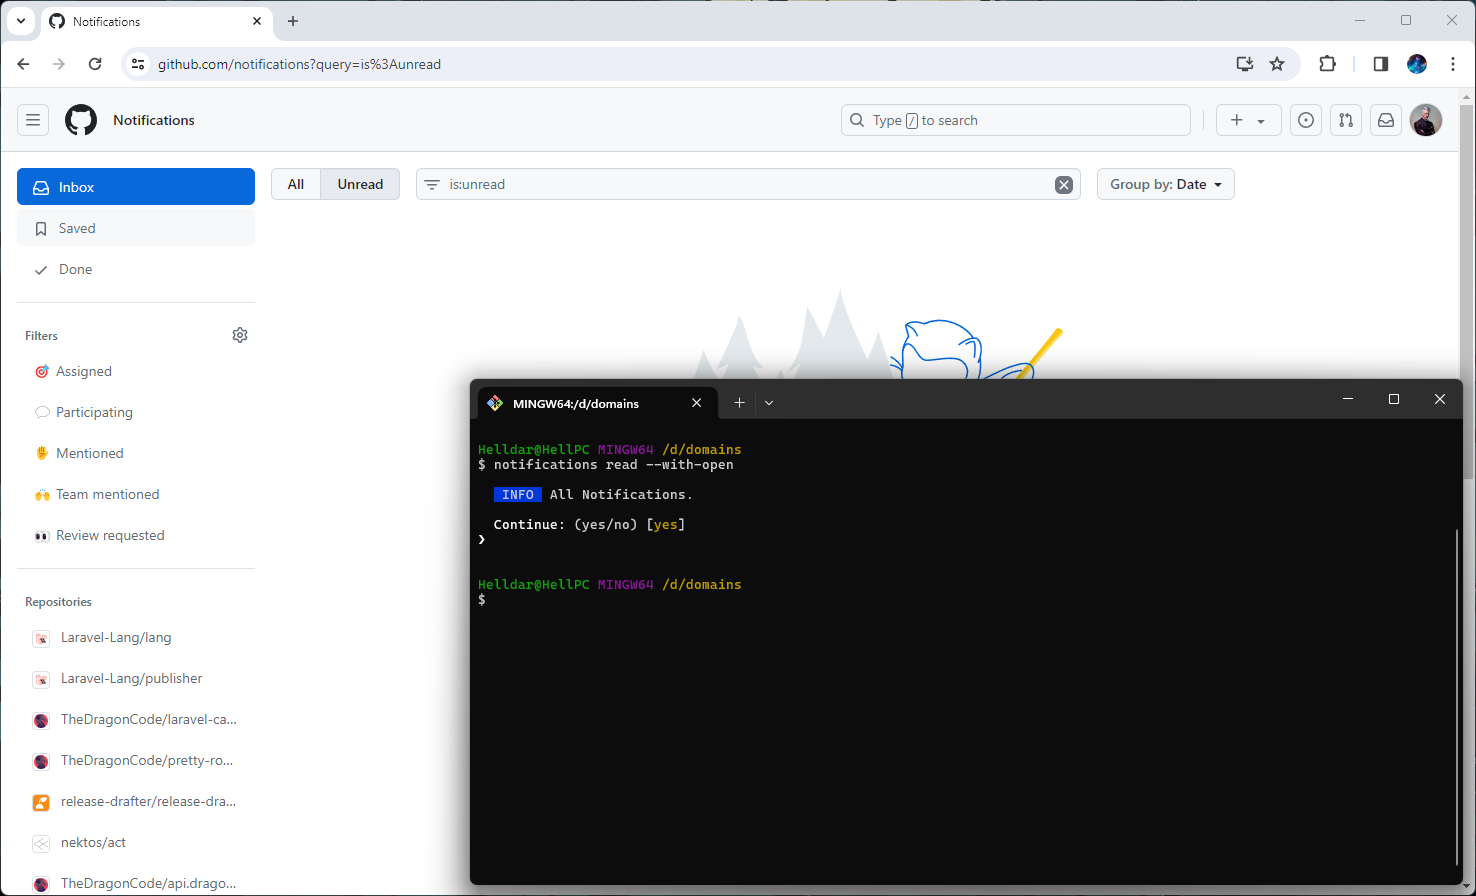
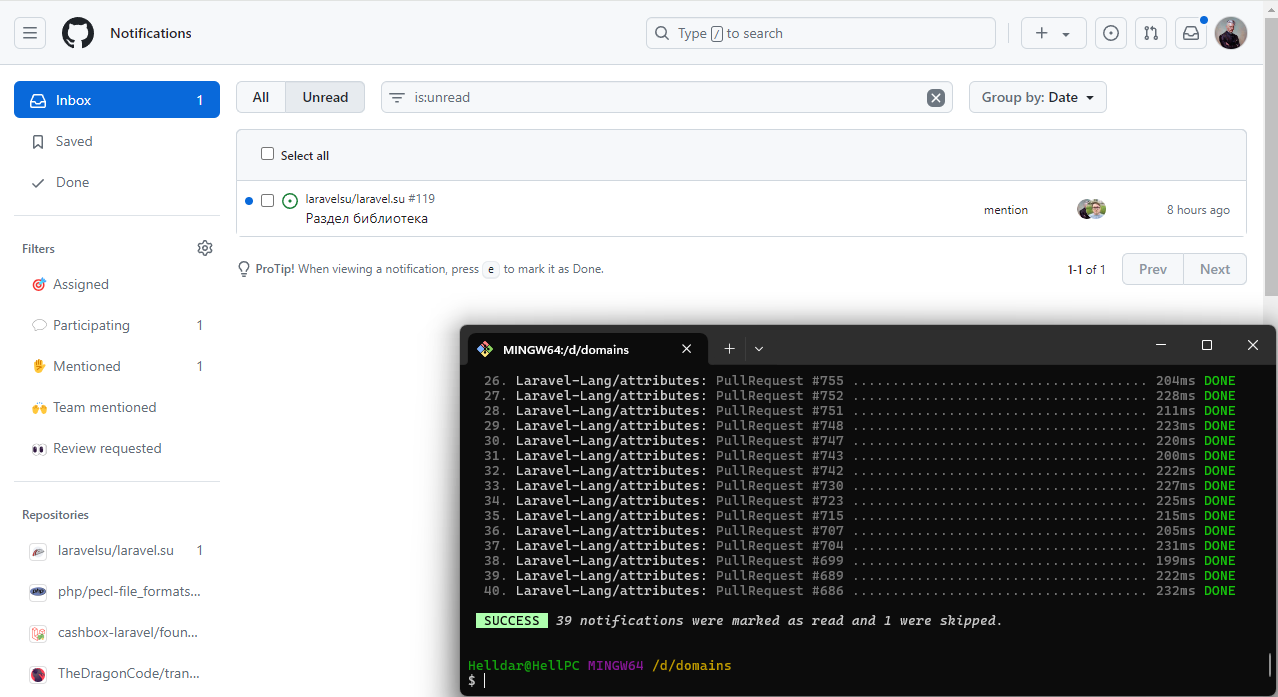
Updated screenshots

diff --git a/README.md b/README.md
@@ -116,6 +116,12 @@ With this set of options, notifications that have:
 
 ### Before
 
+Execute a console command with the following parameters:
+
+```Bash
+notifications read -n --except-mentions
+```
+
 ![before](.github/images/before.png)
 
 ### After
@@ -123,6 +129,12 @@ With this set of options, notifications that have:
 ![after](.github/images/after.png)
 
 ### After With `--with-open` option
+
+Execute a console command with the following parameters:
+
+```Bash
+notifications read -n --except-mentions --with-open
+```
 
 ![after](.github/images/after-with-open.png)
 
